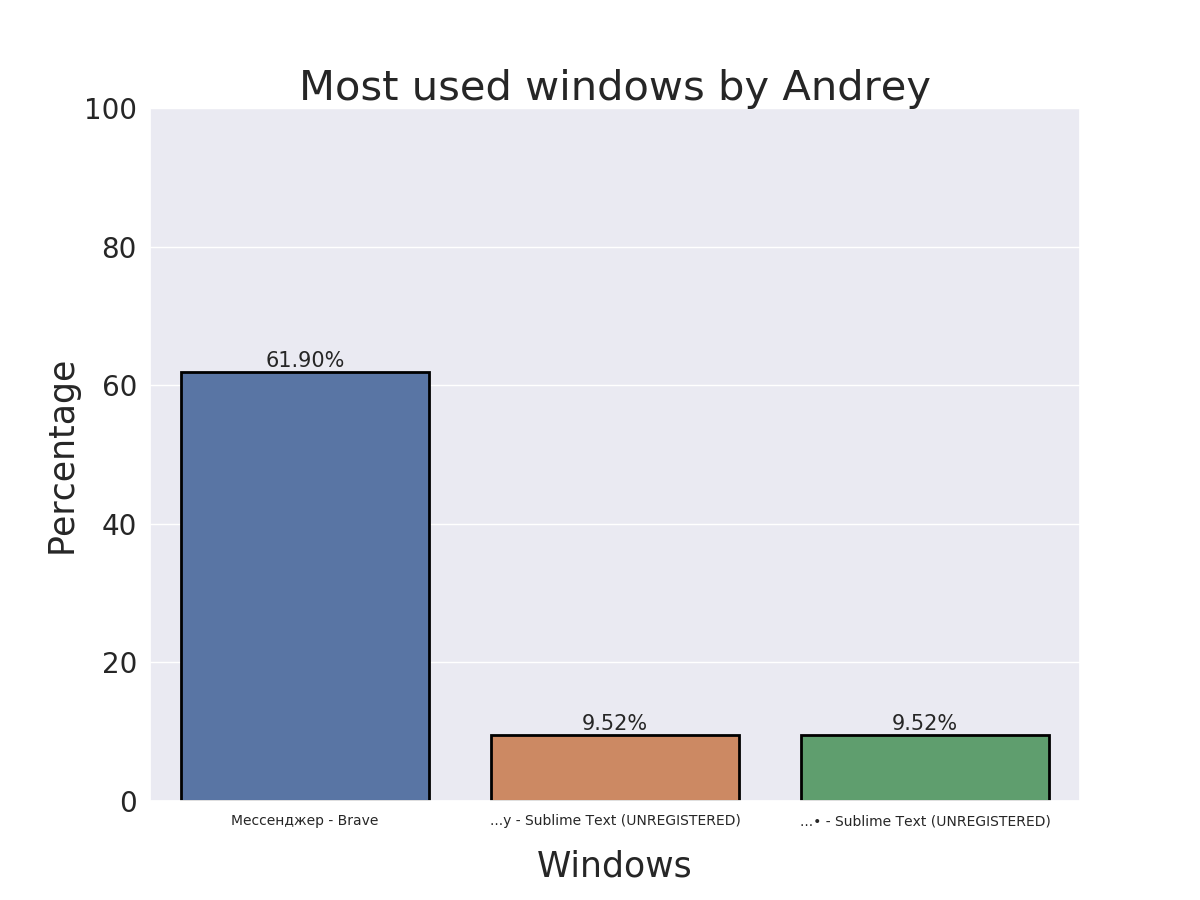
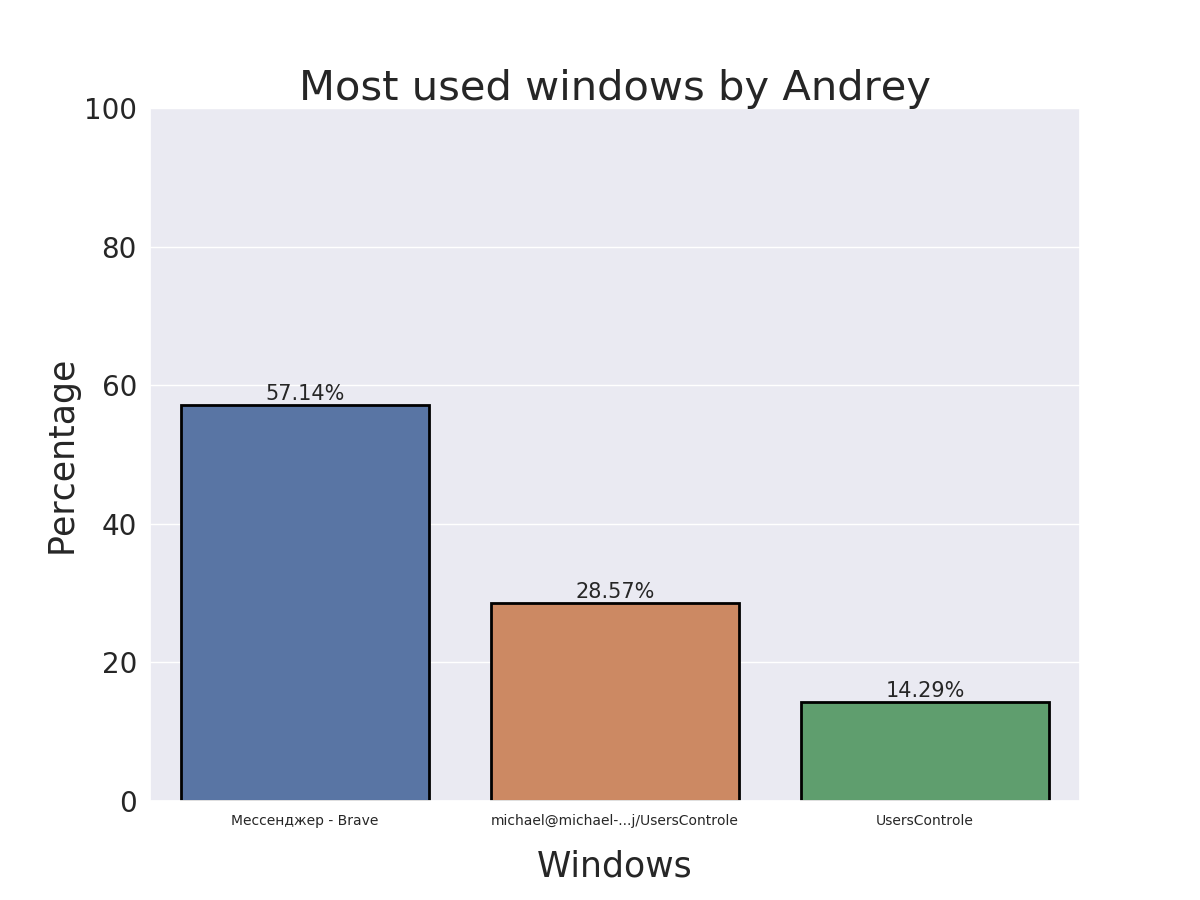
New bot design

diff --git a/TGBot.py b/TGBot.py
@@ -1,49 +1,132 @@
 #!/usr/bin/python3
 
-
 from telegram.ext.updater import Updater
-from telegram.update import Update
 from telegram.ext.callbackcontext import CallbackContext
-from telegram.ext.commandhandler import CommandHandler
 from telegram.ext.messagehandler import MessageHandler
 from telegram.ext.filters import Filters
+from telegram import InlineKeyboardButton, InlineKeyboardMarkup, Update
+from telegram.ext import CallbackQueryHandler, CommandHandler, ContextTypes
+from telegram.replykeyboardmarkup import ReplyKeyboardMarkup
+from telegram.replykeyboardremove import ReplyKeyboardRemove
 
 import subprocess
 
+workers_list = []
+Buttons = [['Workers info', 'Help'], ['Remove keyboard'], ['List of workers']]
+List_to_filter = ['Workers info', 'Help', 'Remove keyboard', 'List of workers']
+
+
 def start(update: Update, context: CallbackContext):
-    update.message.reply_text("Hello, it's UserControl!\nType '/help' for further information")
+    kbd = ReplyKeyboardMarkup(Buttons)
+    update.message.reply_text(text="Hello, it's UserControl!\nType '/help' for further information", reply_markup=kbd)
 
 
 def helpfunc(update: Update, context: CallbackContext):
-    update.message.reply_text("Use '/info [Worker]' for information about worker and graph his active windows. For example, '/info Pasha'")
+    update.message.reply_text("/info [Worker name] to get information about worker and graph his active windows\n" +
+                              "/workers to get list of workers\n" + 
+                              "/keyboard to enable keyboard mode\n" +
+                              "/normal to disable keyboard mode")
 
 
-def info(update: Update, context: CallbackContext):
-    worker_name = context.args[0]
+def button(update: Update, context: CallbackContext):
+    query = update.callback_query
+    query.answer()
+
+    query.delete_message()
+    worker_info(query.data, query, context)
+
+
+def ReadNames():
+    global workers_list
     file = open("./Names.dat", "r")
-    workers = file.readline()
+    workers_list = file.read().split("\n")
     file.close()
+    del workers_list[-1]
 
-    if worker_name not in workers:
+
+def worker_info(worker, update: Update, context: CallbackContext):
+    ReadNames()
+
+    if worker not in workers_list:
         update.message.reply_text("There is no such worker")
         return
 
-    Text = f"Worker name:" + worker_name
+    Text = f"Worker name:" + worker
 
     update.message.reply_text(Text)
 
     # Automatically waits
-    plot = subprocess.run(["./Plot.py", worker_name])
-    context.bot.send_photo(update.message.chat_id, photo=open("./Graphs/Windows" + worker_name + ".png", 'rb'))
+    plot = subprocess.run(["./Plot.py", worker])
+    context.bot.send_photo(update.message.chat_id, photo=open("./Graphs/Windows" + worker + ".png", 'rb'))    
+
+
+def info(update: Update, context: CallbackContext):
+    worker_info(context.args[0], update, context)
+
+
+def workers(update: Update, context: CallbackContext):
+    ReadNames()
+    keyboard = []
+
+    for worker in workers_list:
+        keyboard.append( [InlineKeyboardButton(worker, callback_data=worker)] )
+
+    reply_markup = InlineKeyboardMarkup(keyboard)
+    update.message.reply_text(f"--------- List of workers ({len(workers_list)}) ---------", reply_markup=reply_markup)
+
+
+def RaiseKeyboard(update: Update, context: CallbackContext):
+    kbd = ReplyKeyboardMarkup(Buttons)
+    update.message.reply_text(text="Back to keyboard", reply_markup=kbd)
+
+
+def RemoveKeyboard(update: Update, context: CallbackContext):
+    reply_markup = ReplyKeyboardRemove()
+    update.message.reply_text(text="Back to normal mode", reply_markup=reply_markup)
+
+
+def ProceedKeyboard(update: Update, context: CallbackContext):
+    message = update.message.text
+
+    if message == 'Help':
+        helpfunc(update, context)
+    if message == 'Remove keyboard':
+        RemoveKeyboard(update, context)
+    if message == 'List of workers':
+        workers(update, context)
+    if message == 'Workers info':
+        global List_to_filter
+        ReadNames()
+
+        List_to_filter += workers_list
+        if 'Back to menu' not in List_to_filter:
+            List_to_filter.append('Back to menu')
+        
+        Keys = [['Back to menu']]
+        for name in workers_list:
+            Keys.append([name])
+
+        kbd = ReplyKeyboardMarkup(Keys)
+        update.message.reply_text(text="Choose a worker from the list:", reply_markup=kbd)
+
+    if message in workers_list:
+        worker_info(message, update, context)
+    if message == 'Back to menu':
+        RaiseKeyboard(update, context)
 
 
 def main():
+    List_to_filter
     try:
-        updater = Updater("5341440273:AAHw6wLvQcQAINCWW9epFTDPHGK9lr38BP8",
-                      use_context=True)
+        updater = Updater("5341440273:AAHw6wLvQcQAINCWW9epFTDPHGK9lr38BP8", use_context=True)
         updater.dispatcher.add_handler(CommandHandler('start', start))
         updater.dispatcher.add_handler(CommandHandler('info', info))
         updater.dispatcher.add_handler(CommandHandler('help', helpfunc))
+        updater.dispatcher.add_handler(CommandHandler('workers', workers))
+        updater.dispatcher.add_handler(CommandHandler('keyboard', RaiseKeyboard))
+        updater.dispatcher.add_handler(CommandHandler('normal', RemoveKeyboard))
+        updater.dispatcher.add_handler(MessageHandler(Filters.text(List_to_filter), ProceedKeyboard))
+        updater.dispatcher.add_handler(CallbackQueryHandler(button))
 
         updater.start_polling()
         updater.idle()

diff --git a/Plot.py b/Plot.py
@@ -15,17 +15,15 @@ def main():
     win_list = []
     percent_list = []
 
-    if len(lines) > 0:
-        win_list.append( ('...' + lines[0][-32:]) if len(lines[0]) > 35 else lines[0])
-        percent_list.append(float(lines[1]))
+    try:
+        for i in range(3):
+            new_line = (lines[2*i][:16] + '...' + lines[2*i][-16:]) if len(lines[2*i]) > 35 else lines[2*i]
 
-    if len(lines) > 2:
-        win_list.append( ('...' + lines[2][-32:]) if len(lines[2]) > 35 else lines[2])
-        percent_list.append(float(lines[3]))
+            win_list.append(new_line)
+            percent_list.append(float(lines[2*i + 1]))
+    except:
+        pass
 
-    if len(lines) > 4:
-        win_list.append( ('...' + lines[4][-32:]) if len(lines[4]) > 35 else lines[4]) 
-        percent_list.append(float(lines[5]))
 
     data = {"Windows":    win_list,
             "Percentage": percent_list}

diff --git a/Server.py b/Server.py
@@ -221,7 +221,7 @@ def main():
                     print(f"[System]: New connection: ({nick}, {str(address)})")
                     connection_list.append(client)
                     file = open("./Names.dat", "a")
-                    file.write(nick)
+                    file.write(nick + "\n")
                     file.close()
                     nicknames.append(nick)
                     workers[nick] = {}
